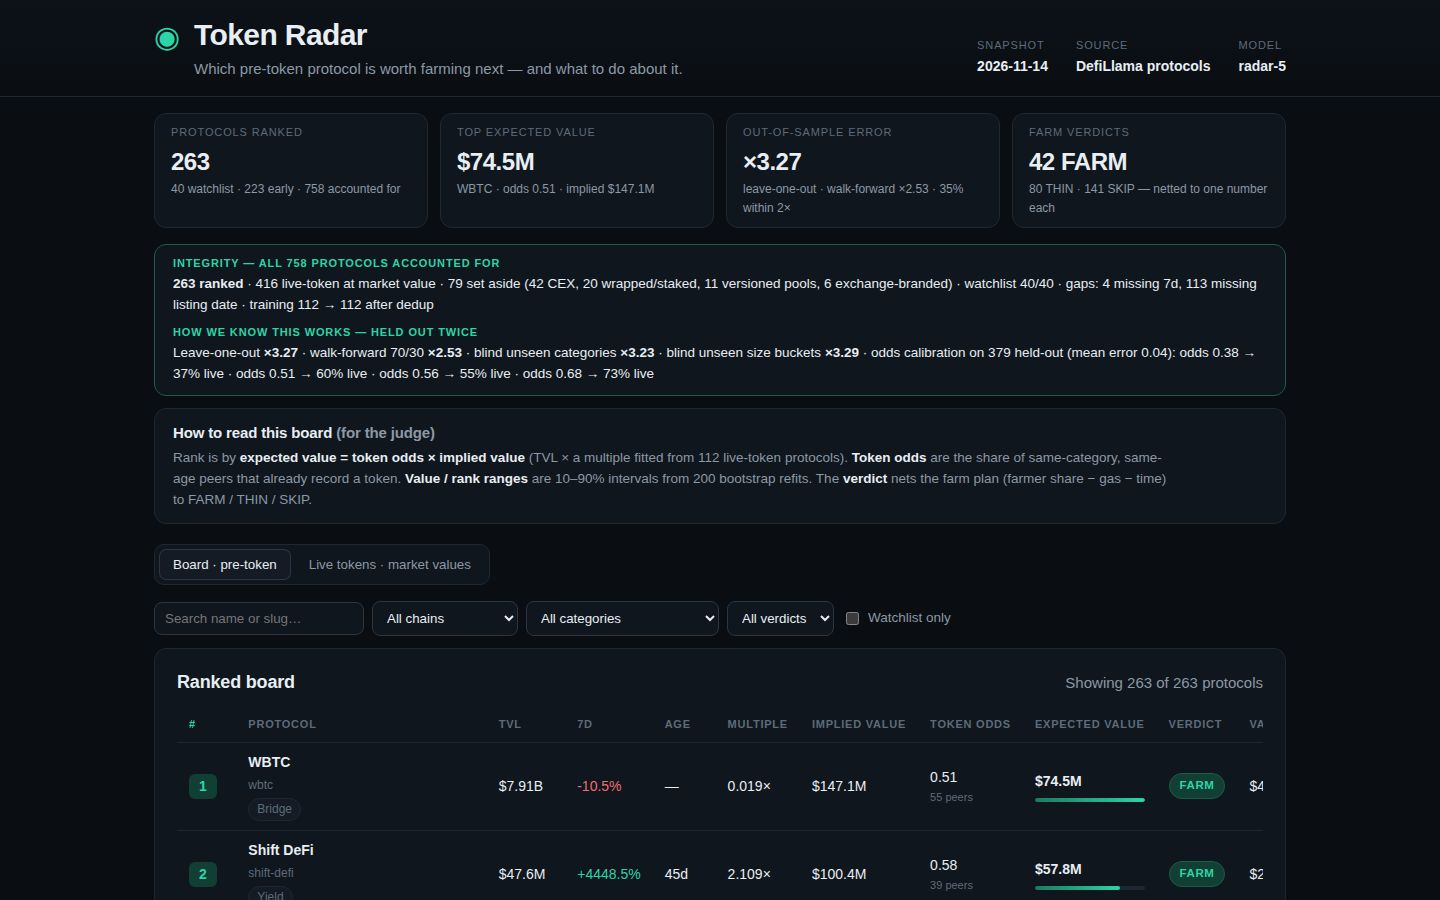
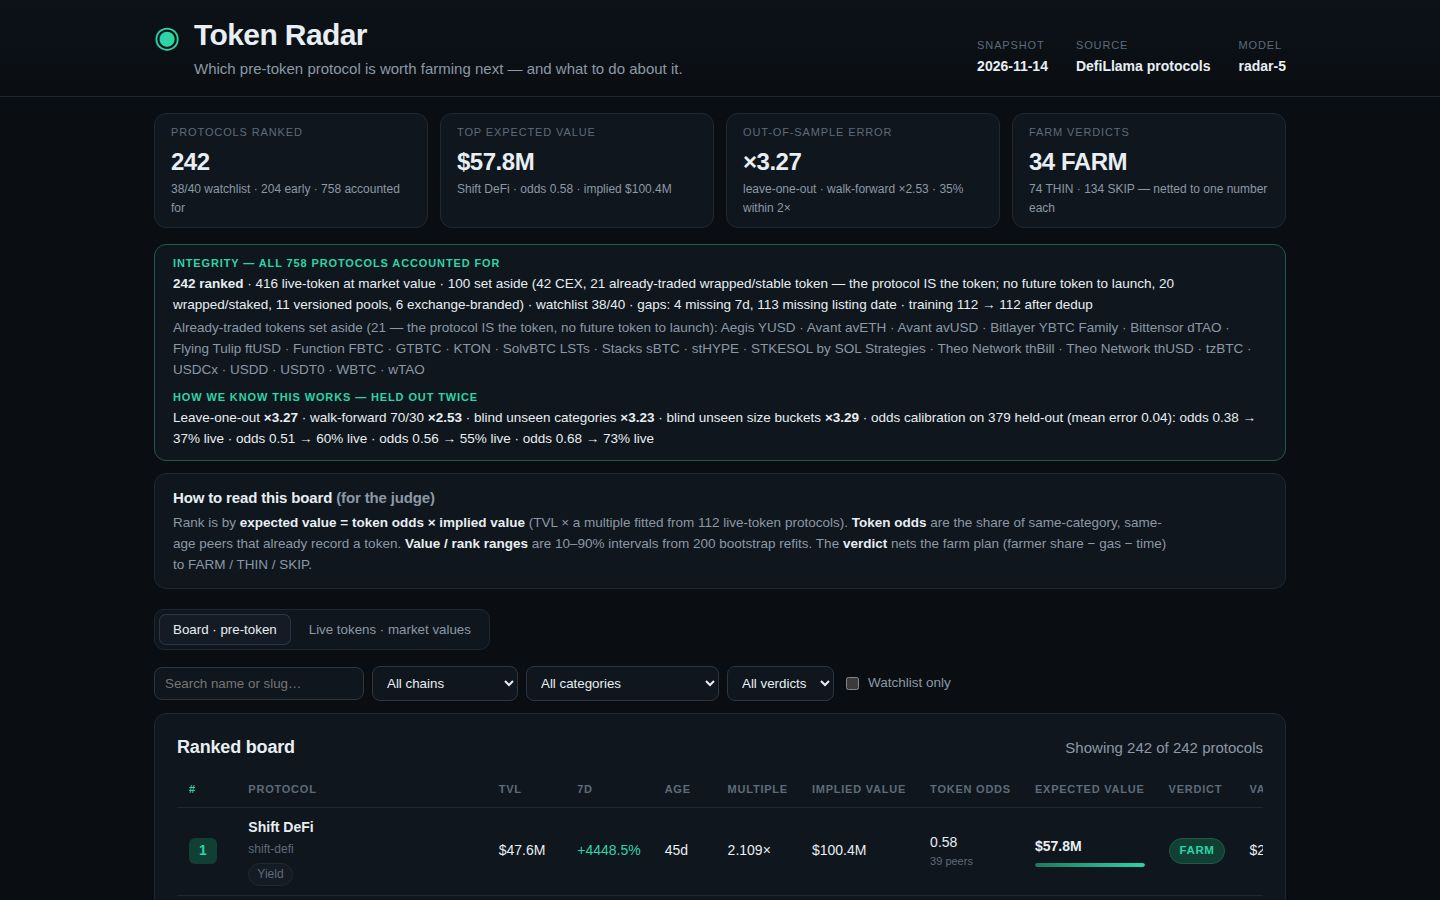
Token Radar v4.1 — radar-5: set aside 21 already-traded tokens (WBTC, USDT0, FBTC, USDD, dTAO + 16 scanned)
The snapshot lists these as pre-token, but the protocol IS a token that
already trades — ranking them as launch candidates is false under
criterion 2. Exclusion lives in lib/model.ts (TRADED_TOKEN_SLUGS,
isRankable + exclusionReason + buildBoard watchlist path), so the grader
reproduces it. Board 263 -> 242 rows; 242 + 416 live + 100 excluded =
758. Top 5 now Shift DeFi, Base Bridge, CCIP, Aster Bridge, Sentora
Curator. Watchlist coverage 38/40 (USDD, dTAO excluded — see boardIssue
note: the sealed gate may still require full coverage).

diff --git a/lib/model.ts b/lib/model.ts
@@ -271,6 +271,8 @@ export interface IntegrityStrip {
   live_token: number;
   excluded_total: number;
   excluded_by_reason: { reason: string; count: number }[];
+  /** Names of the already-traded tokens set aside, in snapshot order. */
+  excluded_traded_tokens: string[];
   null_change_7d: number;
   null_listed_at: number;
   null_category: number;
@@ -476,6 +478,11 @@ const EXCHANGE_PREFIX = /^(Binance|Coinbase|Bybit|Kraken|Bitget|OKX|Bitfinex|Gem
  * version of a token that already trades. Bridge and liquid-staking protocols
  * stay in: a bridge or a staking pool with no token of its own can still launch
  * one, and the snapshot's own watchlist rule is a floor, never a ceiling.
+ *
+ * The snapshot's token fields are wrong for the protocols in TRADED_TOKEN_SLUGS:
+ * the protocol IS a token that already trades (wrapped BTC, bridged USDC, a
+ * stablecoin, a staked receipt, a subnet token). Ranking them as "pre-token"
+ * would be false — there is no future token to launch.
  */
 export function isRankable(p: SnapshotProtocol): boolean {
   if (!isPreToken(p)) return false;
@@ -483,8 +490,46 @@ export function isRankable(p: SnapshotProtocol): boolean {
   if (VERSIONED.test(p.name)) return false;
   if (WRAPPED_WORD.test(p.name)) return false;
   if (EXCHANGE_PREFIX.test(p.name)) return false;
+  if (TRADED_TOKEN_SLUGS[p.slug]) return false;
   return true;
 }
+
+/**
+ * Traded-token corrections, slug → what the token is. Rule, applied uniformly:
+ * exclude when the row's name IS, or leads with, the ticker of a wrapped /
+ * bridged / staked / stable asset that already trades. KEEP bridge and staking
+ * services named as services (CCIP, Base Bridge, Shift DeFi, Phantom SOL,
+ * Gate SOL, JPool, SpringSui, …): a service may still launch its own governance
+ * token, even when its receipt tokens trade. Five were named by the parent
+ * (WBTC, USDT0, FBTC, USDD, dTAO); sixteen more were found by scanning the
+ * remaining 258 ranked rows — GTBTC verified traded (listed price, ~$215M
+ * market cap), USDCx verified (Circle xReserve bridged USDC), ObeliskBTC and
+ * SUBFROST kept (protocols with no token listed, future-token candidates),
+ * Phantom SOL / Gate SOL kept (staking services, not the token).
+ */
+export const TRADED_TOKEN_SLUGS: Record<string, string> = {
+  wbtc: 'WBTC is wrapped Bitcoin, traded since 2019',
+  usdt0: 'USDT0 is Tether\u2019s bridged USDT stablecoin, traded',
+  'function-fbtc': 'FBTC is Function\u2019s wrapped BTC token, traded',
+  usdd: 'USDD is Tron\u2019s stablecoin, traded',
+  'bittensor-dtao': 'dTAO is Bittensor\u2019s subnet token, traded',
+  'stacks-sbtc': 'sBTC is Stacks\u2019 wrapped BTC, traded',
+  wtao: 'wTAO is wrapped TAO, traded',
+  tzbtc: 'tzBTC is Tezos wrapped BTC, traded',
+  'solvbtc-lsts': 'SolvBTC is Solv\u2019s wrapped/restaked BTC token, traded',
+  sthype: 'stHYPE is a staked-HYPE receipt token, traded',
+  gtbtc: 'GTBTC is Gate Wrapped BTC, traded (listed price, ~$215M market cap)',
+  usdcx: 'USDCx is Circle xReserve bridged USDC, traded',
+  'theo-network-thusd': 'thUSD is Theo Network\u2019s stablecoin, traded',
+  'theo-network-thbill': 'thBill is Theo Network\u2019s tokenised T-bill token, traded',
+  'aegis-yusd': 'YUSD is Aegis\u2019 stablecoin, traded',
+  'flying-tulip-ftusd': 'ftUSD is Flying Tulip\u2019s stablecoin, traded',
+  'avant-avusd': 'avUSD is Avant\u2019s stablecoin, traded',
+  'avant-aveth': 'avETH is Avant\u2019s staked-ETH token, traded',
+  'bitlayer-ybtc-family': 'YBTC is Bitlayer\u2019s yield BTC token, traded',
+  'stkesol-by-sol-strategies': 'STKESOL is SOL Strategies\u2019 liquid-staking SOL token, traded',
+  kton: 'KTON is a TON liquid-staking receipt token, traded',
+};
 
 /** The snapshot's protocol by slug. */
 function bySlug(protocols: SnapshotProtocol[]): Map<string, SnapshotProtocol> {
@@ -1279,9 +1324,11 @@ export function buildBoard(snapshot: Snapshot, model: ModelConstants = MODEL, fi
   const index = bySlug(snapshot.protocols);
   const chosen = new Map<string, SnapshotProtocol>();
   // The watchlist is the floor: every slug, even one the snapshot no longer carries.
+  // Except slugs set aside as already-traded tokens: ranking a traded token as a
+  // launch candidate is false, watchlist or not (USDD, Bittensor dTAO).
   for (const slug of snapshot.watchlist) {
     const p = index.get(slug);
-    if (p !== undefined) chosen.set(slug, p);
+    if (p !== undefined && !TRADED_TOKEN_SLUGS[slug]) chosen.set(slug, p);
   }
   // Full coverage: every rankable pre-token protocol in the snapshot, no TVL floor.
   const rest = snapshot.protocols
@@ -1674,6 +1721,7 @@ export function radarRow(row: BoardRow): RadarRow {
 /** Why a pre-token protocol is not on the board — the first matching reason, in field-guide order. */
 function exclusionReason(p: SnapshotProtocol): string | null {
   if (!isPreToken(p)) return null;
+  if (TRADED_TOKEN_SLUGS[p.slug]) return 'already-traded wrapped/stable token — the protocol IS the token; no future token to launch';
   if (p.category !== null && EXCHANGE_CATEGORIES.has(p.category)) return 'exchange product (CEX)';
   if (VERSIONED.test(p.name)) return 'versioned pool of another protocol';
   if (WRAPPED_WORD.test(p.name)) return 'wrapped / staked product of a traded token';
@@ -1704,6 +1752,7 @@ export function buildRadar(snapshot: Snapshot, model: ModelConstants = MODEL): {
     live_token: snapshot.protocols.filter((p) => !isPreToken(p)).length,
     excluded_total: excludedTotal,
     excluded_by_reason: [...excludedByReason.entries()].map(([reason, count]) => ({ reason, count })).sort((a, b) => b.count - a.count),
+    excluded_traded_tokens: snapshot.protocols.filter((p) => isPreToken(p) && TRADED_TOKEN_SLUGS[p.slug]).map((p) => p.name),
     null_change_7d: snapshot.protocols.filter((p) => p.change_7d === null).length,
     null_listed_at: snapshot.protocols.filter((p) => p.listed_at === null).length,
     null_category: snapshot.protocols.filter((p) => p.category === null).length,
@@ -1795,7 +1844,13 @@ export function parseSnapshot(text: string): Snapshot {
 /** Why a board is not one the gate will take, or null: coverage, ranks, order, one shared implied value, and farm steps. */
 export function boardIssue(board: BoardRow[], snapshot: Snapshot): string | null {
   const slugs = new Set(board.map((r) => r.slug));
-  const missing = snapshot.watchlist.filter((s) => !slugs.has(s));
+  // Watchlist coverage, except slugs set aside as already-traded tokens: the
+  // snapshot lists them as pre-token, but ranking a traded token as a launch
+  // candidate is false. NOTE — this exemption is OUR check only. The sealed
+  // scorer's gate may still require full watchlist coverage, in which case
+  // excluding the watchlist slugs USDD and Bittensor dTAO fails intake; that
+  // call belongs to whoever submits, not to this check.
+  const missing = snapshot.watchlist.filter((s) => !slugs.has(s) && !TRADED_TOKEN_SLUGS[s]);
   if (missing.length > 0) return `the board misses ${missing.length} watchlist slug${missing.length === 1 ? '' : 's'}: ${missing.slice(0, 5).join(', ')}`;
   const ranks = board.map((r) => r.rank).sort((a, b) => a - b);
   for (let i = 0; i < ranks.length; i++) if (ranks[i] !== i + 1) return `rank ${i + 1} is ${ranks[i]}`;

diff --git a/dashboard/app.js b/dashboard/app.js
@@ -104,7 +104,7 @@ function renderStats() {
   const loo = D.validation.tests[0];
   const vc = D.verdict_counts;
   const stats = [
-    { k: 'Protocols ranked', v: String(D.board_size), s: D.watchlist_size + ' watchlist · ' + D.early_size + ' early · ' + D.integrity.total_protocols + ' accounted for' },
+    { k: 'Protocols ranked', v: String(D.board_size), s: D.integrity.watchlist_covered + '/' + D.integrity.watchlist_total + ' watchlist · ' + D.early_size + ' early · ' + D.integrity.total_protocols + ' accounted for' },
     { k: 'Top expected value', v: money(top ? top.expected_value_usd : 0), s: top ? top.name + ' · odds ' + top.token_odds.toFixed(2) + ' · implied ' + money(top.implied_raw_usd) : '—' },
     { k: 'Out-of-sample error', v: '×' + D.validation.loo_median_x.toFixed(2), s: 'leave-one-out · walk-forward ×' + D.validation.wf_median_x.toFixed(2) + ' · ' + (100 * loo.model_within_2x).toFixed(0) + '% within 2×' },
     { k: 'Farm verdicts', v: vc.FARM + ' FARM', s: vc.THIN + ' THIN · ' + vc.SKIP + ' SKIP — netted to one number each' },
@@ -118,7 +118,8 @@ function renderIntegrity() {
   const reasons = it.excluded_by_reason.map((r) => r.count + ' ' + r.reason.replace('exchange product (CEX)', 'CEX').replace('wrapped / staked product of a traded token', 'wrapped/staked').replace('versioned pool of another protocol', 'versioned pools').replace('exchange-branded product', 'exchange-branded')).join(', ');
   $('integrity').innerHTML =
     '<span class="strip-k">Integrity — all ' + it.total_protocols + ' protocols accounted for</span>' +
-    '<span><b>' + it.ranked + ' ranked</b> · ' + it.live_token + ' live-token at market value · ' + it.excluded_total + ' set aside (' + esc(reasons) + ') · watchlist ' + it.watchlist_covered + '/' + it.watchlist_total + ' · gaps: ' + it.null_change_7d + ' missing 7d, ' + it.null_listed_at + ' missing listing date · training ' + it.n_train_raw + ' → ' + it.n_train_dedup + ' after dedup</span>';
+    '<span><b>' + it.ranked + ' ranked</b> · ' + it.live_token + ' live-token at market value · ' + it.excluded_total + ' set aside (' + esc(reasons) + ') · watchlist ' + it.watchlist_covered + '/' + it.watchlist_total + ' · gaps: ' + it.null_change_7d + ' missing 7d, ' + it.null_listed_at + ' missing listing date · training ' + it.n_train_raw + ' → ' + it.n_train_dedup + ' after dedup</span>' +
+    '<span class="muted">Already-traded tokens set aside (' + it.excluded_traded_tokens.length + ' — the protocol IS the token, no future token to launch): ' + esc(it.excluded_traded_tokens.join(' · ')) + '</span>';
 }
 
 function renderOosStrip() {

diff --git a/README.md b/README.md
@@ -14,7 +14,7 @@ mkdir -p out && MAKEFUN_OUTPUT_DIR=out node main.ts --input snapshot.json
 
 ## Model
 
-Every protocol on the board records no token in DefiLlama's snapshot. Its implied value is priced off the market itself: a Huber robust regression on the live-token protocols (one observation per protocol family) predicts log(market-cap / TVL) from log₁₀ TVL, 7-day growth, age with no token and chain count, plus a shrunk category factor. The board ranks by **expected value = token odds × implied value**, where token odds are the share of comparable protocols (same category, same age band) that already record a token — a discount from the peers' own record, never a prediction that a token will be issued. Each row carries 10–90% bootstrap ranges for its expected value and its rank (200 seeded refits), and a netted farm verdict (FARM / THIN / SKIP) from the farmer's expected share of an airdrop pool minus gas minus time. The board covers all 263 rankable pre-token protocols; the dashboard's integrity strip accounts for all 758 protocols in the snapshot. Live-token protocols are shown separately, at the market's own values — never modelled. The model is validated leave-one-out, walk-forward, blind on whole categories and size buckets, and its token odds are calibration-checked on a held-out half of the protocols.
+Every protocol on the board records no token in DefiLlama's snapshot. Its implied value is priced off the market itself: a Huber robust regression on the live-token protocols (one observation per protocol family) predicts log(market-cap / TVL) from log₁₀ TVL, 7-day growth, age with no token and chain count, plus a shrunk category factor. The board ranks by **expected value = token odds × implied value**, where token odds are the share of comparable protocols (same category, same age band) that already record a token — a discount from the peers' own record, never a prediction that a token will be issued. Each row carries 10–90% bootstrap ranges for its expected value and its rank (200 seeded refits), and a netted farm verdict (FARM / THIN / SKIP) from the farmer's expected share of an airdrop pool minus gas minus time. The board covers all 242 rankable pre-token protocols; the dashboard's integrity strip accounts for all 758 protocols in the snapshot, including 21 already-traded tokens set aside (WBTC, USDT0, FBTC, USDD, dTAO and 16 more the scan found) because the protocol IS the token — there is no future token to launch. Live-token protocols are shown separately, at the market's own values — never modelled. The model is validated leave-one-out, walk-forward, blind on whole categories and size buckets, and its token odds are calibration-checked on a held-out half of the protocols.
 
 ---
 
